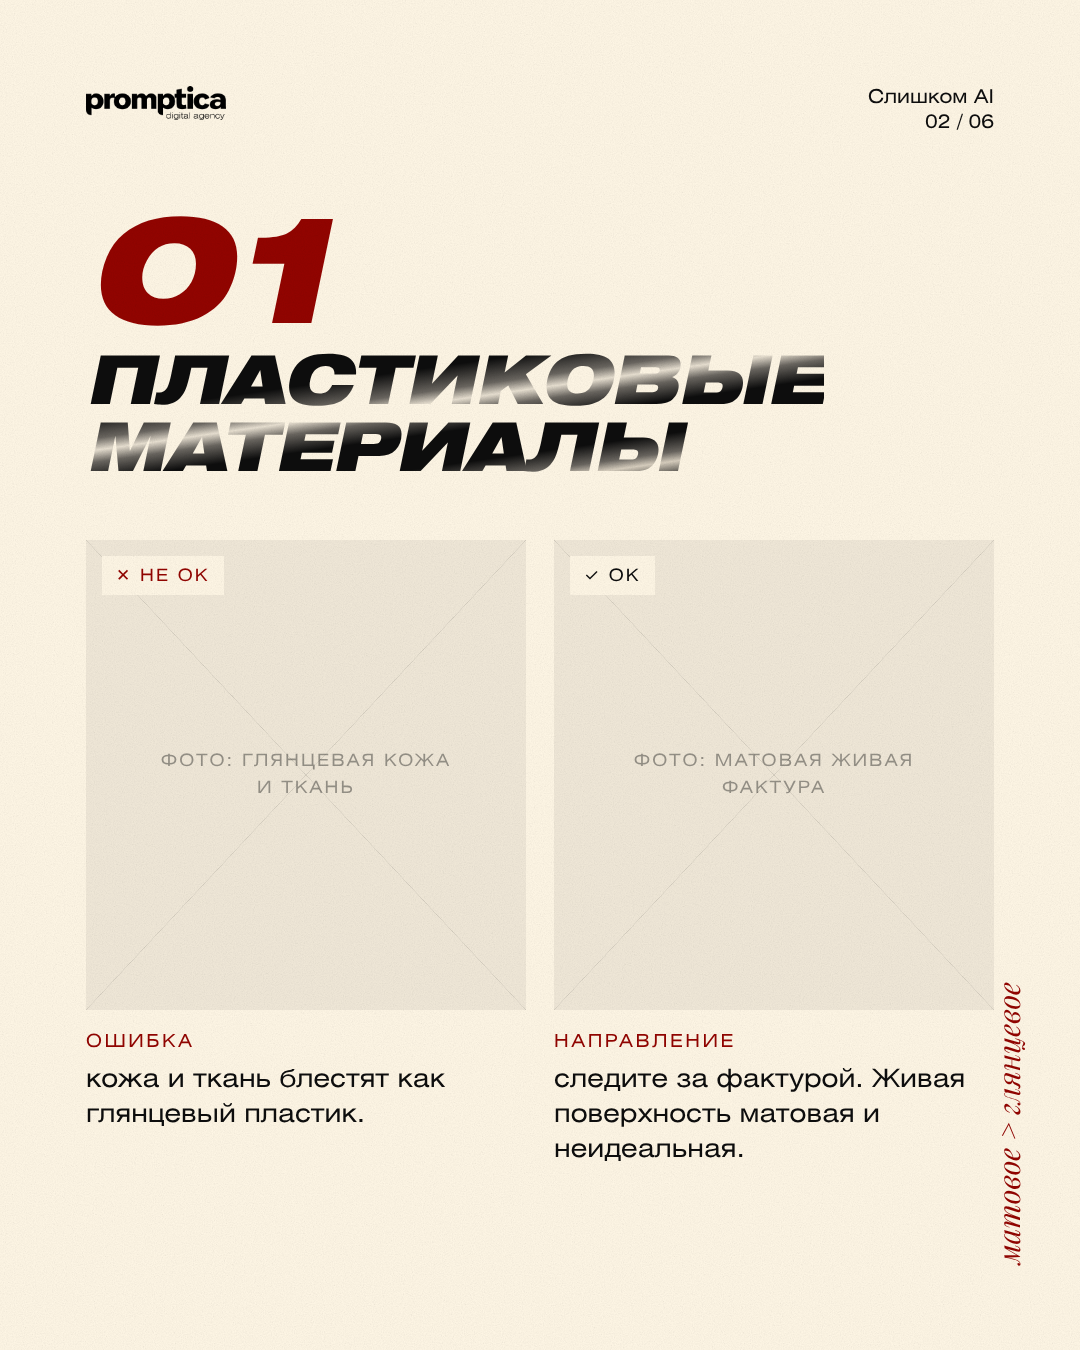
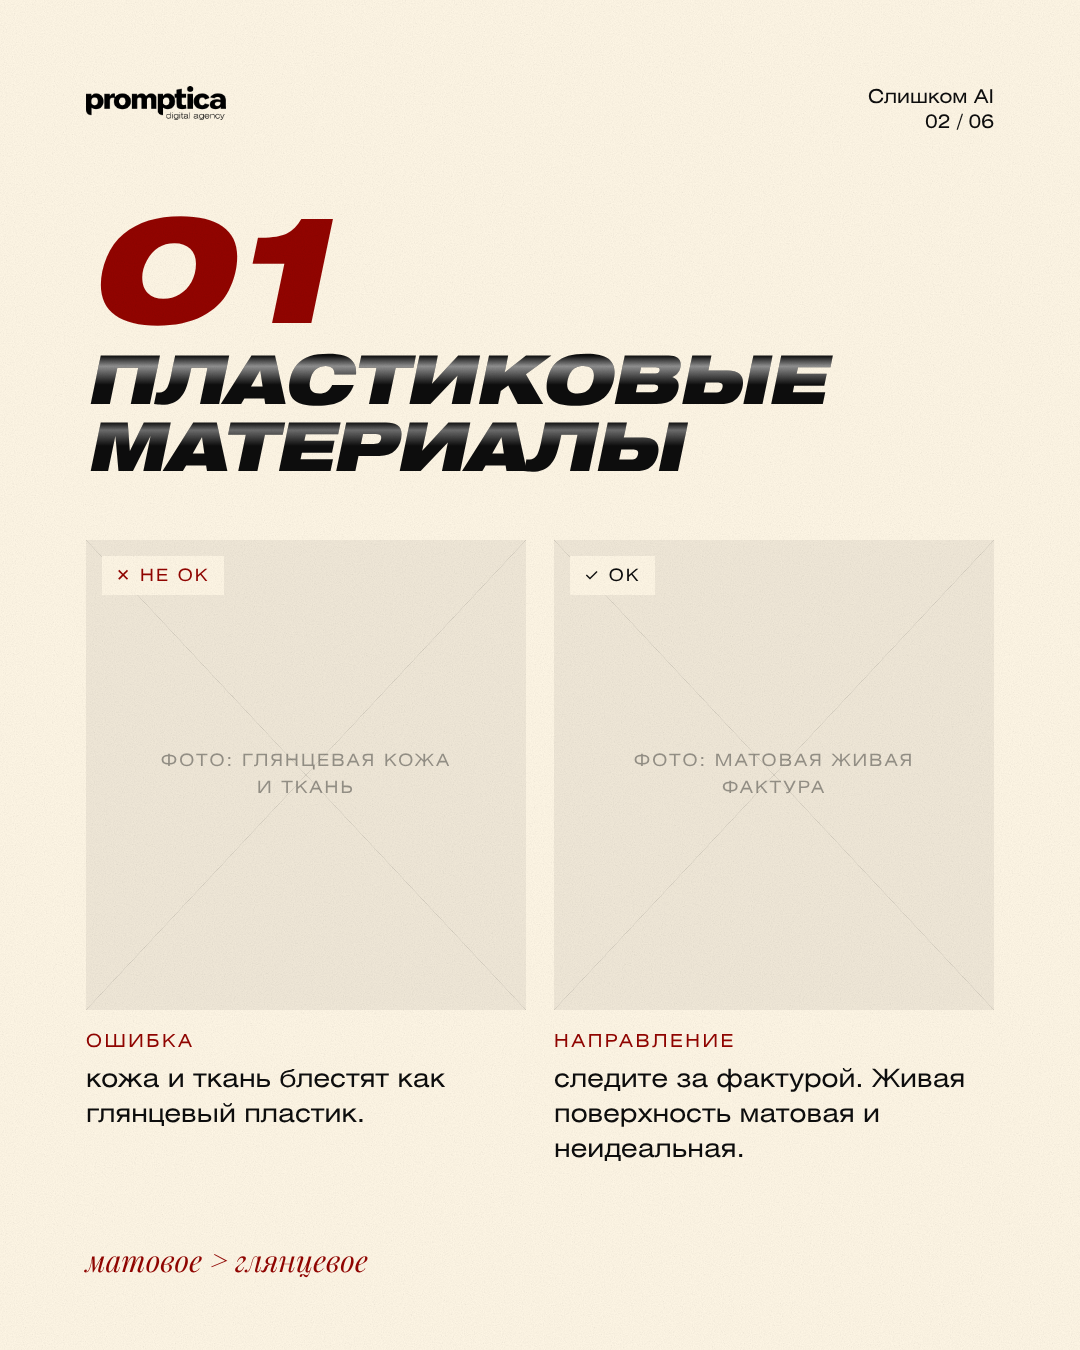
«Слишком AI»: хук в 2 строки + слот видео, заметки снизу слева, мягкий пластиковый блик
Claude-Session: https://claude.ai/code/session_01V1NUh11xrVMcB1cs4GV2qz

diff --git a/carousels/promptica-too-ai/01.html b/carousels/promptica-too-ai/01.html
@@ -5,15 +5,21 @@
   <title>Слишком AI — 01</title>
   <link rel="stylesheet" href="style.css">
   <style>
-    .hook { position: absolute; left: var(--m); top: 330px; font-size: 98px; }
-    .sub { position: absolute; left: var(--m); top: 760px; width: 700px; font-size: 38px; line-height: 1.3; }
-    .swipe { position: absolute; left: var(--m); bottom: var(--m); font-size: 19px; }
+    .hook { position: absolute; left: var(--m); top: 420px; font-size: 74px; white-space: nowrap; z-index: 2; }
+    .sub { z-index: 2; }
+    /* видео-подложка: положить файл в img/01-bg.mp4 — пока его нет, видна схема */
+    .bgvideo { position: absolute; inset: 0; z-index: 0; background: rgba(13,13,13,.06); }
+    .bgvideo video { position: absolute; inset: 0; width: 100%; height: 100%; object-fit: cover; }
+    .bgvideo .hint { position: absolute; left: 0; right: 0; bottom: 330px; text-align: center; font-size: 17px; letter-spacing: .12em; text-transform: uppercase; color: rgba(13,13,13,.4); }
+    .sub { position: absolute; left: var(--m); top: 620px; width: 700px; font-size: 38px; line-height: 1.3; }
+    .swipe { position: absolute; right: var(--m); bottom: 70px; font-size: 19px; z-index: 5; }
   </style>
 </head>
 <body>
   <div class="slide">
     <div class="head"><img src="../../assets/logo_black.png" alt="promptica"><div class="meta">Слишком AI<br>01 / 06</div></div>
-    <div class="h hook">Почему это<br>«слишком<br>AI»</div>
+    <div class="bgvideo"><div class="hint">здесь будет видео-подложка</div><video src="img/01-bg.mp4" muted loop autoplay playsinline onerror="this.remove()"></video></div>
+    <div class="h hook">Почему это<br>«слишком AI»</div>
     <p class="sub">4 признака, которые выдают нейросеть</p>
     <div class="swipe">листай →</div>
     <div class="note">проверь свой контент →</div>

diff --git a/carousels/promptica-too-ai/02.html b/carousels/promptica-too-ai/02.html
@@ -7,7 +7,11 @@
   <style>
     .title { position: absolute; left: var(--m); top: 345px; font-size: 68px; }
 
-    .gloss { background: linear-gradient(172deg, #0D0D0D 0%, #0D0D0D 30%, #6a6660 40%, #e9e1d2 45%, #6a6660 50%, #0D0D0D 58%, #0D0D0D 72%, #6a6660 80%, #d8cfbf 84%, #0D0D0D 92%); -webkit-background-clip: text; background-clip: text; color: transparent; }
+    .gloss { position: relative; color: var(--black); }
+    /* пластик: один мягкий блик по верху букв, как на гладкой поверхности */
+    .gloss::after { content: attr(data-t); position: absolute; inset: 0; color: transparent;
+      background: linear-gradient(180deg, rgba(255,255,255,0) 8%, rgba(255,255,255,.55) 16%, rgba(255,255,255,0) 30%, rgba(255,255,255,0) 58%, rgba(255,255,255,.4) 64%, rgba(255,255,255,0) 76%);
+      -webkit-background-clip: text; background-clip: text; pointer-events: none; }
   </style>
 </head>
 <body>
@@ -15,7 +19,8 @@
     <div class="head"><img src="../../assets/logo_black.png" alt="promptica"><div class="meta">Слишком AI<br>02 / 06</div></div>
     <div class="num">01</div>
 
-    <div class="h title gloss">Пластиковые<br>материалы</div>
+    <div class="h title gloss" data-t="Пластиковые&#10;материалы" style="white-space:pre-line">Пластиковые
+материалы</div>
     <div class="pair">
       <div class="col bad"><div class="ph"><span class="badge">✕ не ок</span><div class="x"></div><div class="hint">фото: глянцевая кожа<br>и ткань</div><img src="img/02-bad.jpg" alt="" onerror="this.remove()"></div>
         <div class="cap"><div class="lbl">Ошибка</div><p class="txt">кожа и ткань блестят как глянцевый пластик.</p></div></div>

diff --git a/carousels/promptica-too-ai/style.css b/carousels/promptica-too-ai/style.css
@@ -25,7 +25,7 @@ html, body { width: 1080px; height: 1350px; overflow: hidden; }
 .txt { font-size: 31px; line-height: 1.38; }
 
 /* заметка на полях — Playfair Italic, вертикально по правому краю */
-.note { position: absolute; right: 52px; bottom: var(--m); writing-mode: vertical-rl; transform: rotate(180deg); font-family: 'Playfair', serif; font-style: italic; font-size: 30px; color: var(--red); white-space: nowrap; z-index: 5; }
+.note { position: absolute; left: var(--m); bottom: 70px; font-family: 'Playfair', serif; font-style: italic; font-size: 30px; color: var(--red); white-space: nowrap; z-index: 5; }
 
 /* плёночное зерно */
 .grain { position: absolute; inset: 0; width: 100%; height: 100%; pointer-events: none; mix-blend-mode: multiply; opacity: .18; z-index: 10; }
